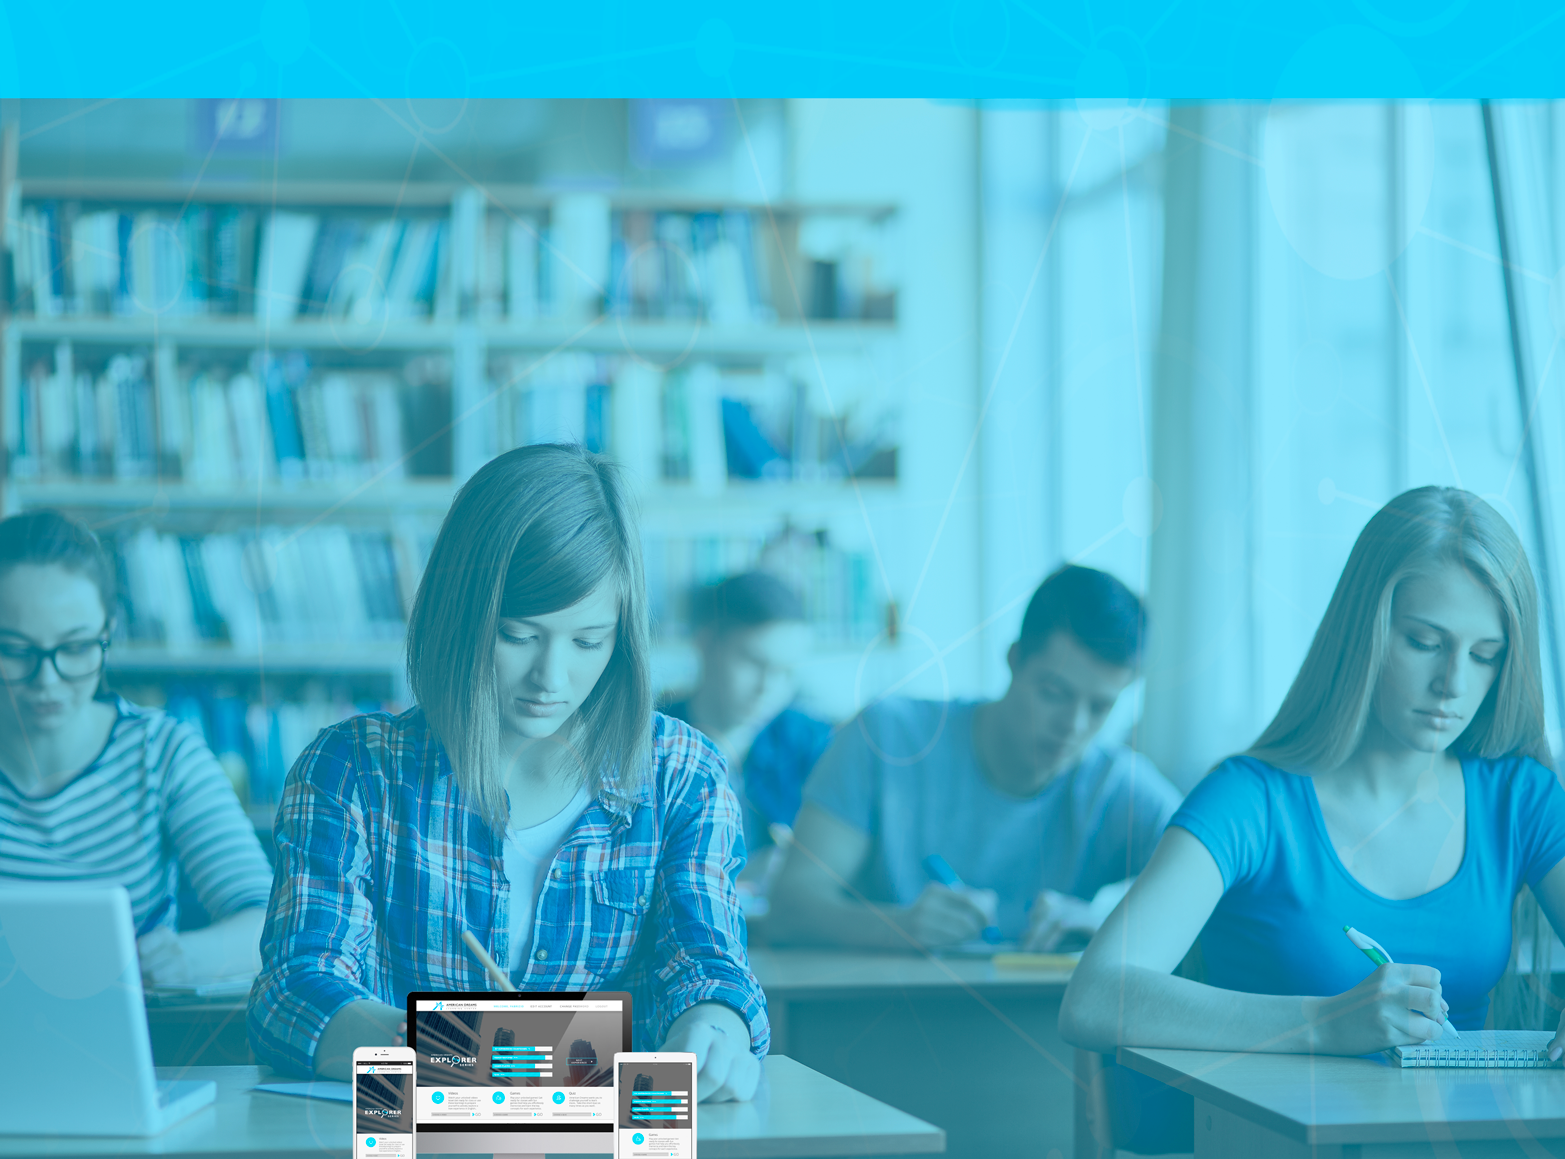
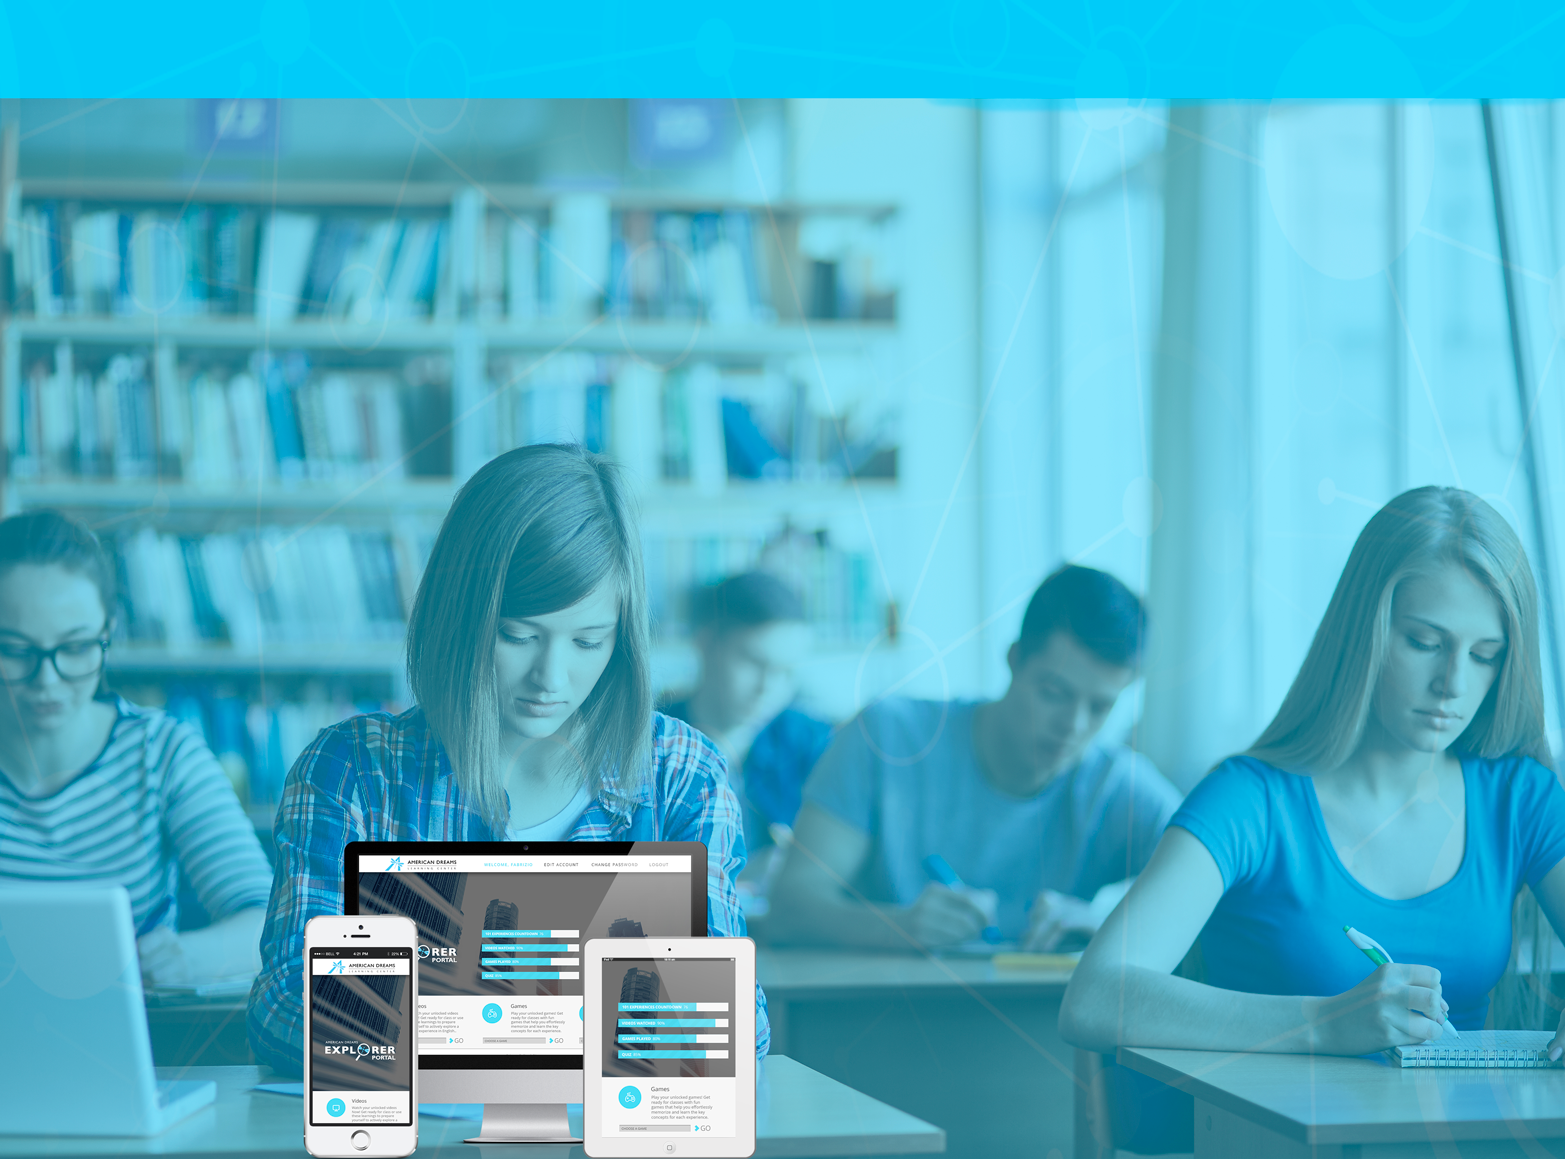
fixed header mobile
added new images

Changed region(s): [[0.184, 0.7144, 0.4907, 1.0]]

diff --git a/videoTest/index.html b/videoTest/index.html
@@ -50,7 +50,7 @@
                     <li><a href="http://americandreamslc.com/tesol">TESOL</a></li>
                     <li><a href="#contact">Contact</a></li>
                     <li class="list_right"><a href="#"><i id="cart" class="fa fa-shopping-cart" title="Your Cart" atl="Your Cart"></i></a></li>
-                    <li class="list_right"><a href="#"><img id="flag" src="images/do.gif" title="Spanish (Dominican Republic)" alt="Spanish (Dominican Republic)"/></a></li>
+                    <li class="list_right"><a href="http://localhost:8888/ADLC/vid/spn/videoTest/"><img id="flag" src="images/do.gif" title="Spanish (Dominican Republic)" alt="Spanish (Dominican Republic)"/></a></li>
                     <li class="list_right"><a href="#"><img id="flag" src="images/br.gif" title="Portuguese (Brasil)" alt="Portuguese (Brasil)"/></a></li>
                     <li class="list_right"><a href="#"><img id="flag" src="images/us.gif" title="English (U.S.)" alt="English (United States)"/></a></li> 
                 </ul>
@@ -193,7 +193,7 @@ Real life experiences is a program of " blended learning" 12 months designed to 
               <!-- Social media links  -->
             <ul class="social_media">
               <li><a href=""><i class="icon-twitter"></i></a></li>
-              <li><a href=""><i class="icon-facebook"></i></a></li>
+              <li><a href="https://www.facebook.com/americandreamslc?fref=ts" target="_blank"><i class="icon-facebook"></i></a></li>
               <li><a href=""><i class="icon-dribbble"></i></a></li>
               <li><a href=""><i class="icon-linkedin"></i></a></li>
               <li><a href=""><i class="icon-instagram"></i></a></li>

diff --git a/videoTest/css/responsive.css b/videoTest/css/responsive.css
@@ -879,7 +879,7 @@ and (orientation : landscape){
 
 @media (min-width:20px) and (max-width:1080px){
 	.list_right{
-		display: none;
+		display: none !important;
 		visibility: hidden;
 	}
 }
